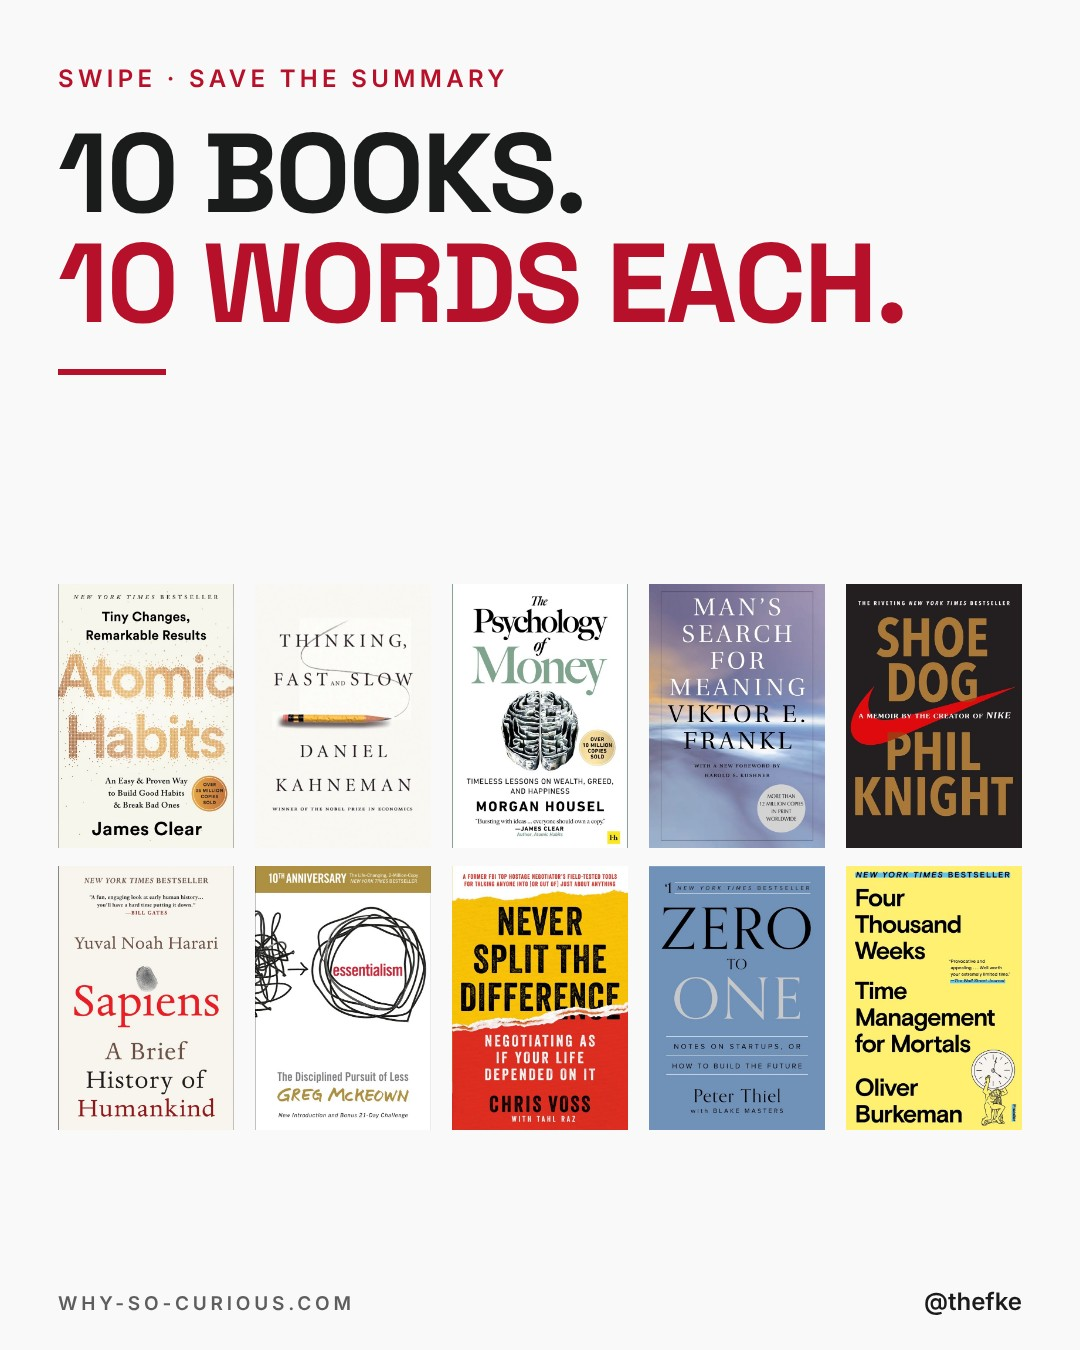
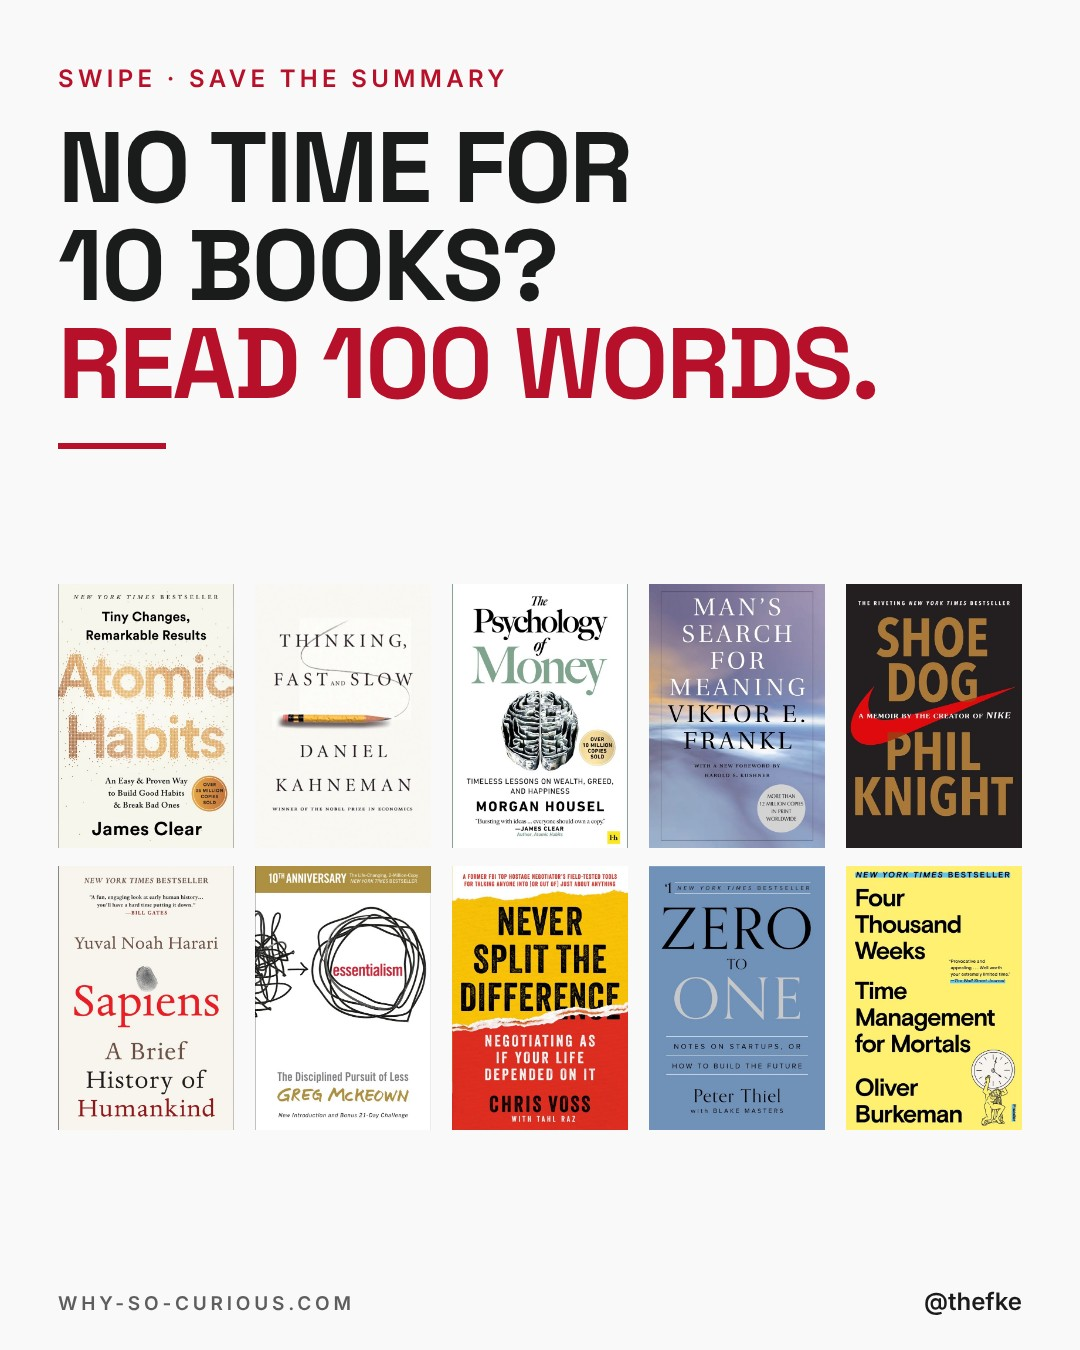
10 Books in 10 Words: neuer Hook "No time for 10 books? Read 100 words." (Thomas, 22.11.2026) (#46)
Claude-Session: https://claude.ai/code/session_012MyTsRSoHmEwdUrVbzPwXM

Changed region(s): [[0.0611, 0.0933, 0.8556, 0.3422]]

diff --git a/plan/2026-11-22-10-books-10-words/README.md b/plan/2026-11-22-10-books-10-words/README.md
@@ -5,8 +5,8 @@ Karussell, 12 Slides. Beim Hochladen 4:5 wählen.
 ## Caption
 
 ```
-10 books.
-10 words each.
+No time for 10 books?
+Read 100 words.
 
 The whole idea, nothing else.
 Read the one that makes you stop.
